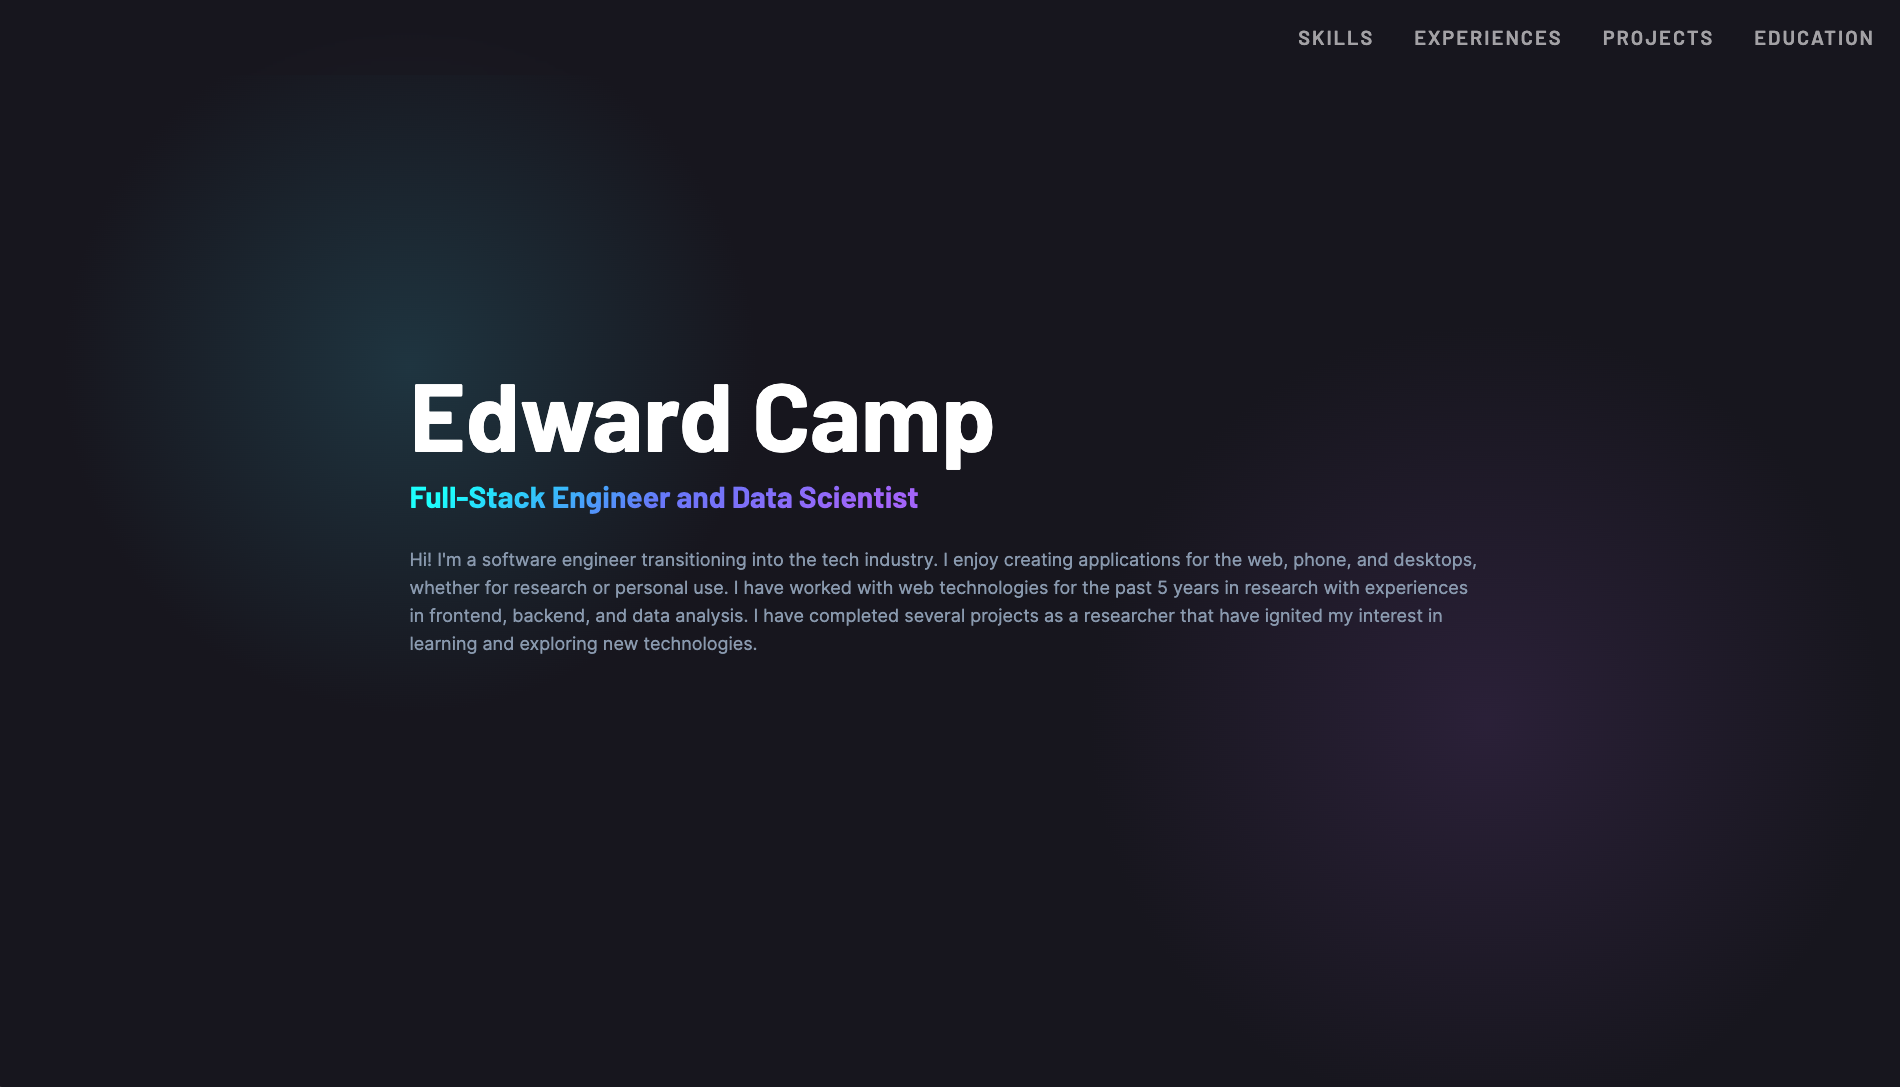
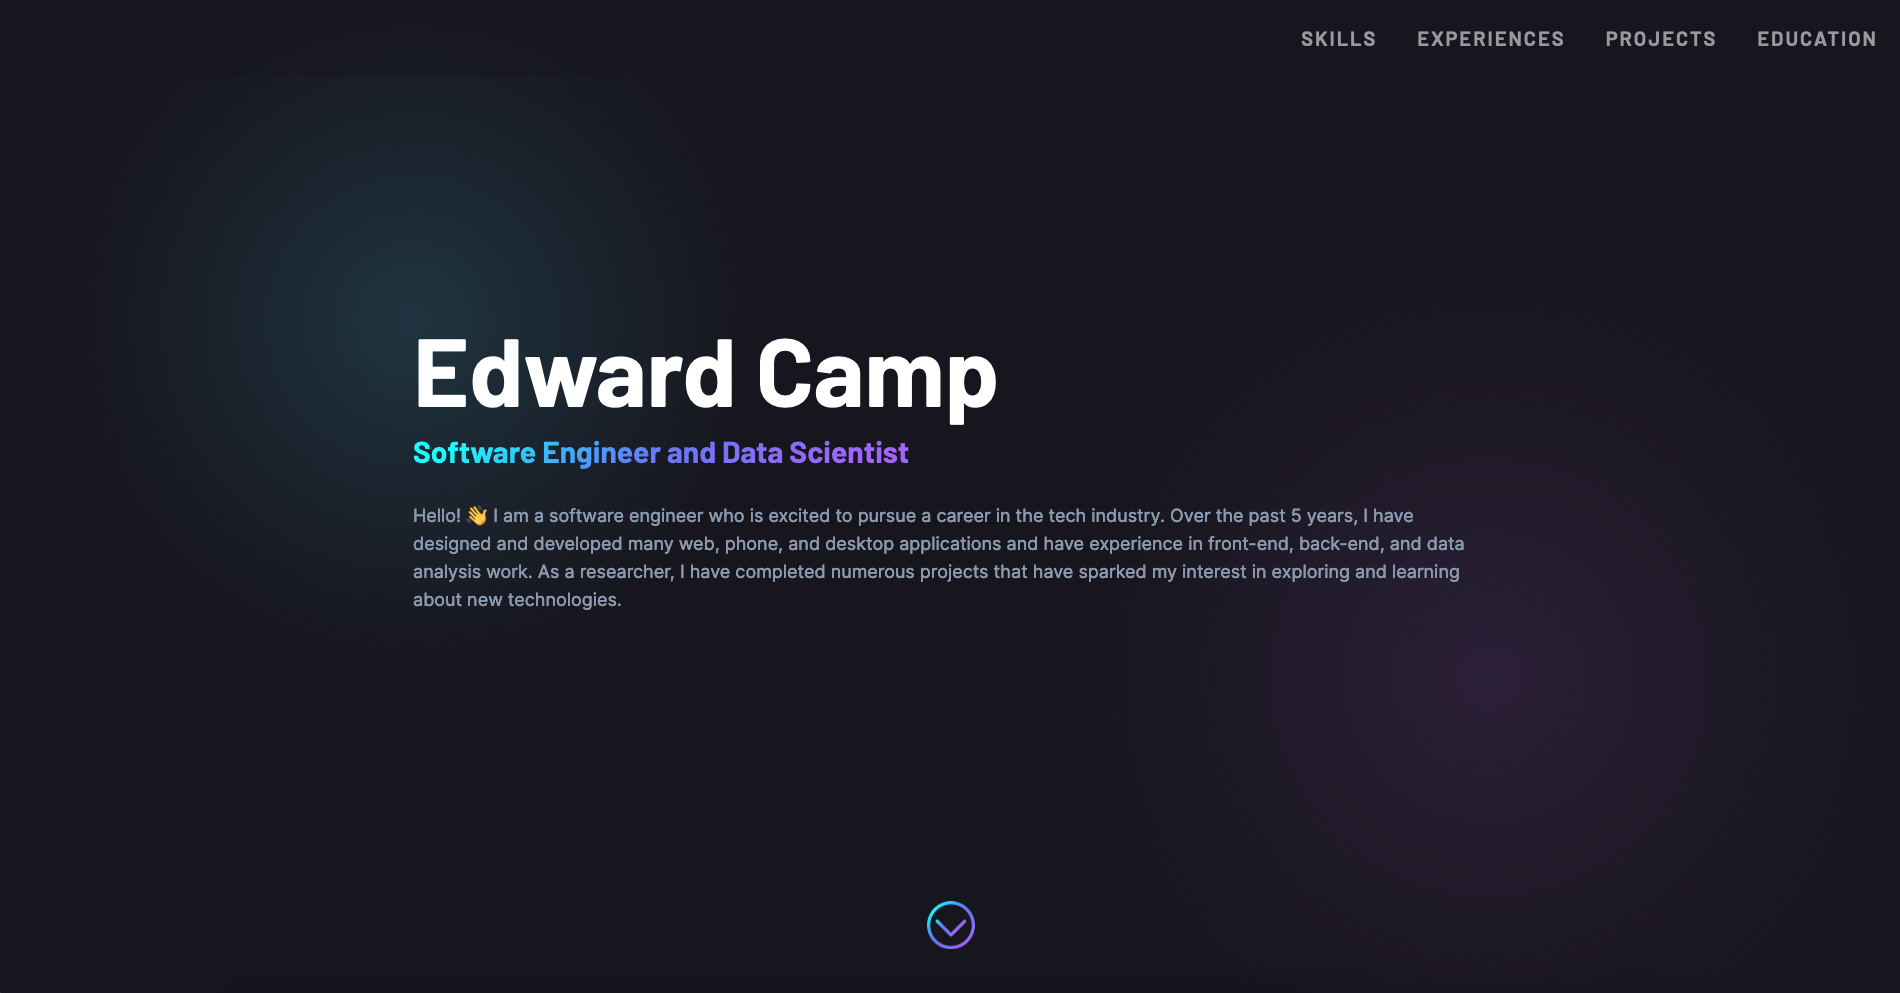
Changed skills and title per feedback

diff --git a/src/data/info.ts b/src/data/info.ts
@@ -1,7 +1,7 @@
 export const info = {
   baseUrl: "https://edward-camp-portfolio.vercel.app",
   name: "Edward Camp",
-  jobDescription: "Full-Stack Engineer and Data Scientist",
+  jobDescription: "Software Engineer and Data Scientist",
 
   about: `Hello! 👋 I am a software engineer who is excited to pursue a career in the tech industry. 
 Over the past 5 years, I have designed and developed many web, phone, and desktop applications and have experience in front-end, back-end, and data analysis work. 
@@ -34,15 +34,9 @@ As a researcher, I have completed numerous projects that have sparked my interes
     },
     {
       type: "Language",
-      title: "MySQL",
-      imageUrl: "/assets/devicons/mysql-slate.svg",
-      hoverImageUrl: "/assets/devicons/mysql-white.svg",
-    },
-    {
-      type: "Language",
-      title: "PostgreSQL",
-      imageUrl: "/assets/devicons/postgresql-slate.svg",
-      hoverImageUrl: "/assets/devicons/postgresql-white.svg",
+      title: "SQL",
+      imageUrl: "/assets/devicons/SQL-slate.svg",
+      hoverImageUrl: "/assets/devicons/SQL-white.svg",
     },
     {
       type: "Language",
@@ -55,6 +49,12 @@ As a researcher, I have completed numerous projects that have sparked my interes
       title: "R",
       imageUrl: "/assets/devicons/r-slate.svg",
       hoverImageUrl: "/assets/devicons/r-white.svg",
+    },
+    {
+      type: "Language",
+      title: "Java",
+      imageUrl: "/assets/devicons/java-plain-slate.svg",
+      hoverImageUrl: "/assets/devicons/java-plain-white.svg",
     },
     {
       type: "Framework",
@@ -94,33 +94,33 @@ As a researcher, I have completed numerous projects that have sparked my interes
     },
     {
       type: "Framework",
-      title: "Sequelize",
-      imageUrl: "/assets/devicons/sequelize-slate.svg",
-      hoverImageUrl: "/assets/devicons/sequelize-white.svg",
-    },
-    {
-      type: "Framework",
       title: "Astro",
       imageUrl: "/assets/devicons/astro-slate.svg",
       hoverImageUrl: "/assets/devicons/astro-white.svg",
+    },
+    {
+      type: "Framework",
+      title: "Pandas",
+      imageUrl: "/assets/devicons/pandas-slate.svg",
+      hoverImageUrl: "/assets/devicons/pandas-white.svg",
+    },
+    {
+      type: "Tool",
+      title: "MySQL",
+      imageUrl: "/assets/devicons/mysql-slate.svg",
+      hoverImageUrl: "/assets/devicons/mysql-white.svg",
+    },
+    {
+      type: "Tool",
+      title: "PostgreSQL",
+      imageUrl: "/assets/devicons/postgresql-slate.svg",
+      hoverImageUrl: "/assets/devicons/postgresql-white.svg",
     },
     {
       type: "Tool",
       title: "Git",
       imageUrl: "/assets/devicons/git-slate.svg",
       hoverImageUrl: "/assets/devicons/git-white.svg",
-    },
-    {
-      type: "Tool",
-      title: "GitHub",
-      imageUrl: "/assets/devicons/github-slate.svg",
-      hoverImageUrl: "/assets/devicons/github-white.svg",
-    },
-    {
-      type: "Tool",
-      title: "Bash",
-      imageUrl: "/assets/devicons/bash-slate.svg",
-      hoverImageUrl: "/assets/devicons/bash-white.svg",
     },
     {
       type: "Tool",
@@ -136,15 +136,15 @@ As a researcher, I have completed numerous projects that have sparked my interes
     },
     {
       type: "Tool",
-      title: "pgAdmin",
-      imageUrl: "/assets/devicons/postgresql-slate.svg",
-      hoverImageUrl: "/assets/devicons/postgresql-white.svg",
-    },
-    {
-      type: "Tool",
       title: "PyQt",
       imageUrl: "/assets/devicons/qt-slate.svg",
       hoverImageUrl: "/assets/devicons/qt-white.svg",
+    },
+    {
+      type: "Tool",
+      title: "RESTful",
+      imageUrl: "/assets/devicons/RESTAPI_Icon-slate.svg",
+      hoverImageUrl: "/assets/devicons/RESTAPI_Icon-white.svg",
     },
     {
       type: "Tool",
@@ -184,7 +184,7 @@ As a researcher, I have completed numerous projects that have sparked my interes
     {
       title: "HOBSCOTCH Research Study",
       thumbnail: "/assets/images/HOBSCOTCH_Dashboard_thumbnail.jpeg",
-      techTags: ["Typescript", "Javascript", "React", "React Native", "Tailwind CSS", "NodeJS", "ExpressJS", "PostgreSQL", "Sequelize"],
+      techTags: ["Typescript", "Javascript", "React", "React Native", "Tailwind CSS", "NodeJS", "ExpressJS", "PostgreSQL"],
       shortDescription: "A full-stack application that helps run the HOBSCOTCH program's research study to improve health outcomes of patients with epilepsy. Coordinators use the web app dashboard to add participants and modify study variables. Participants enroll and use the mobile app to answer daily logs with reminder notifications. If you'd like access to the demo version of the webapp, feel free to email me for login credentials!",
       longDescription: [],
       githubLink: "",
